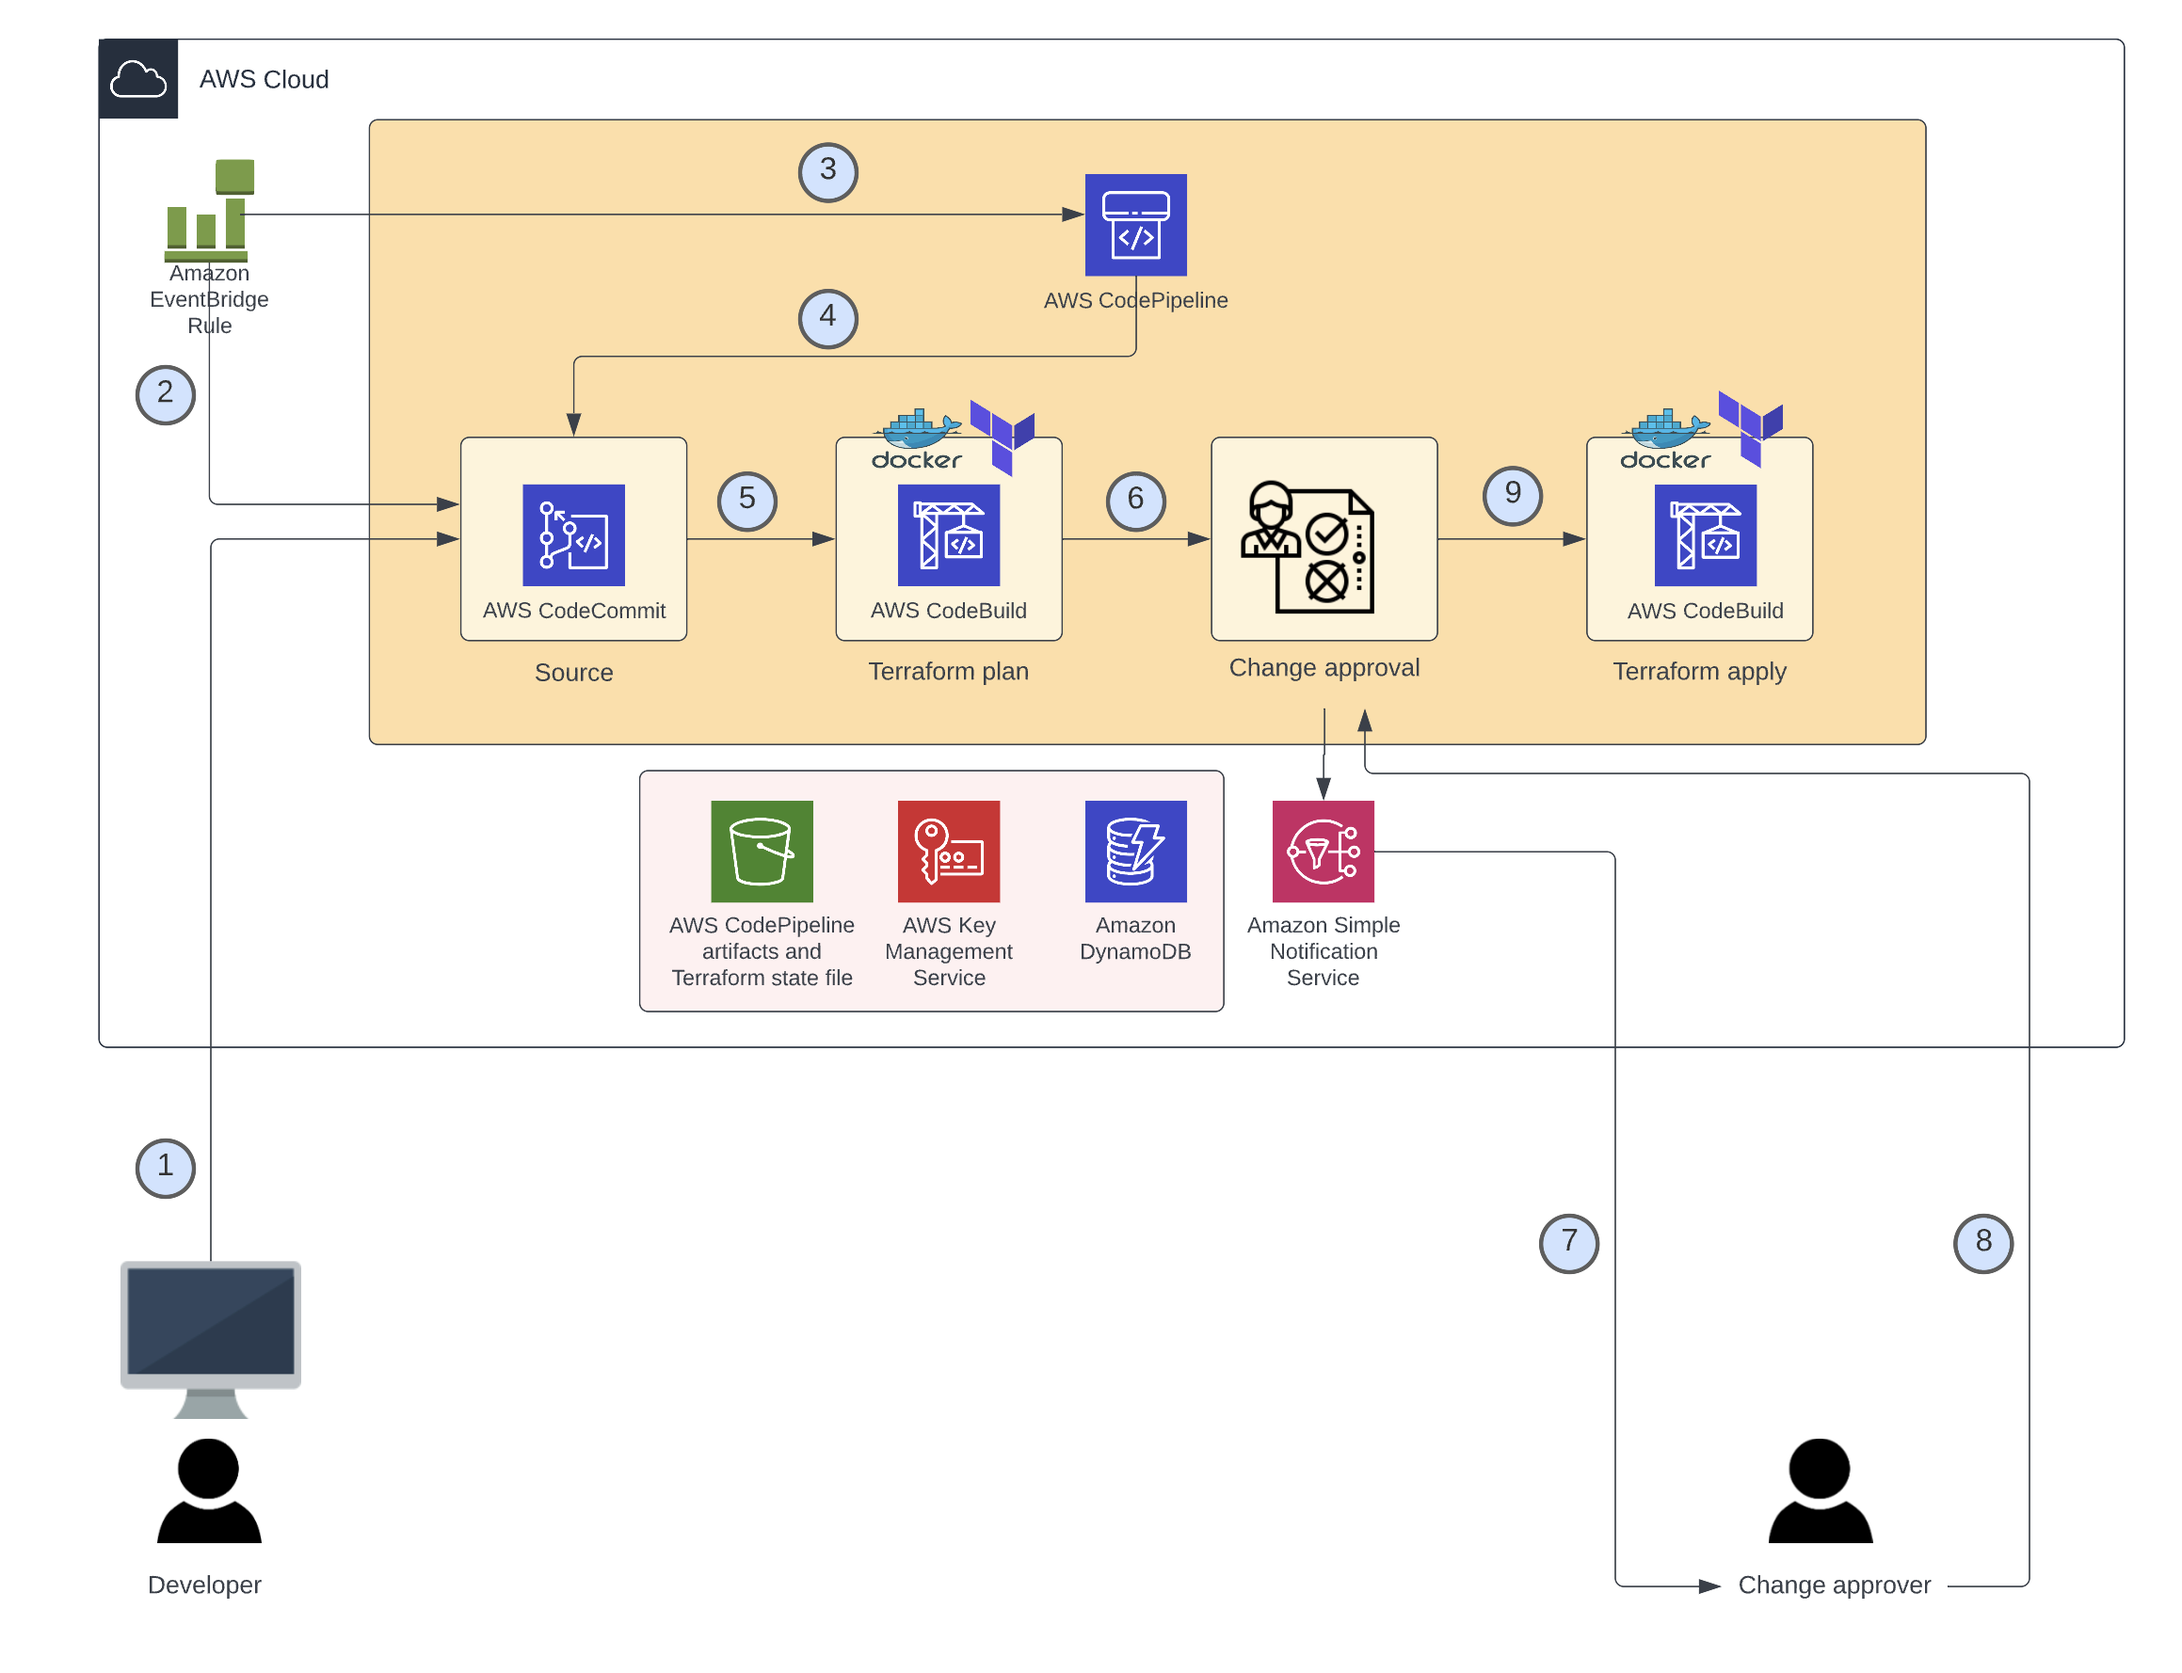
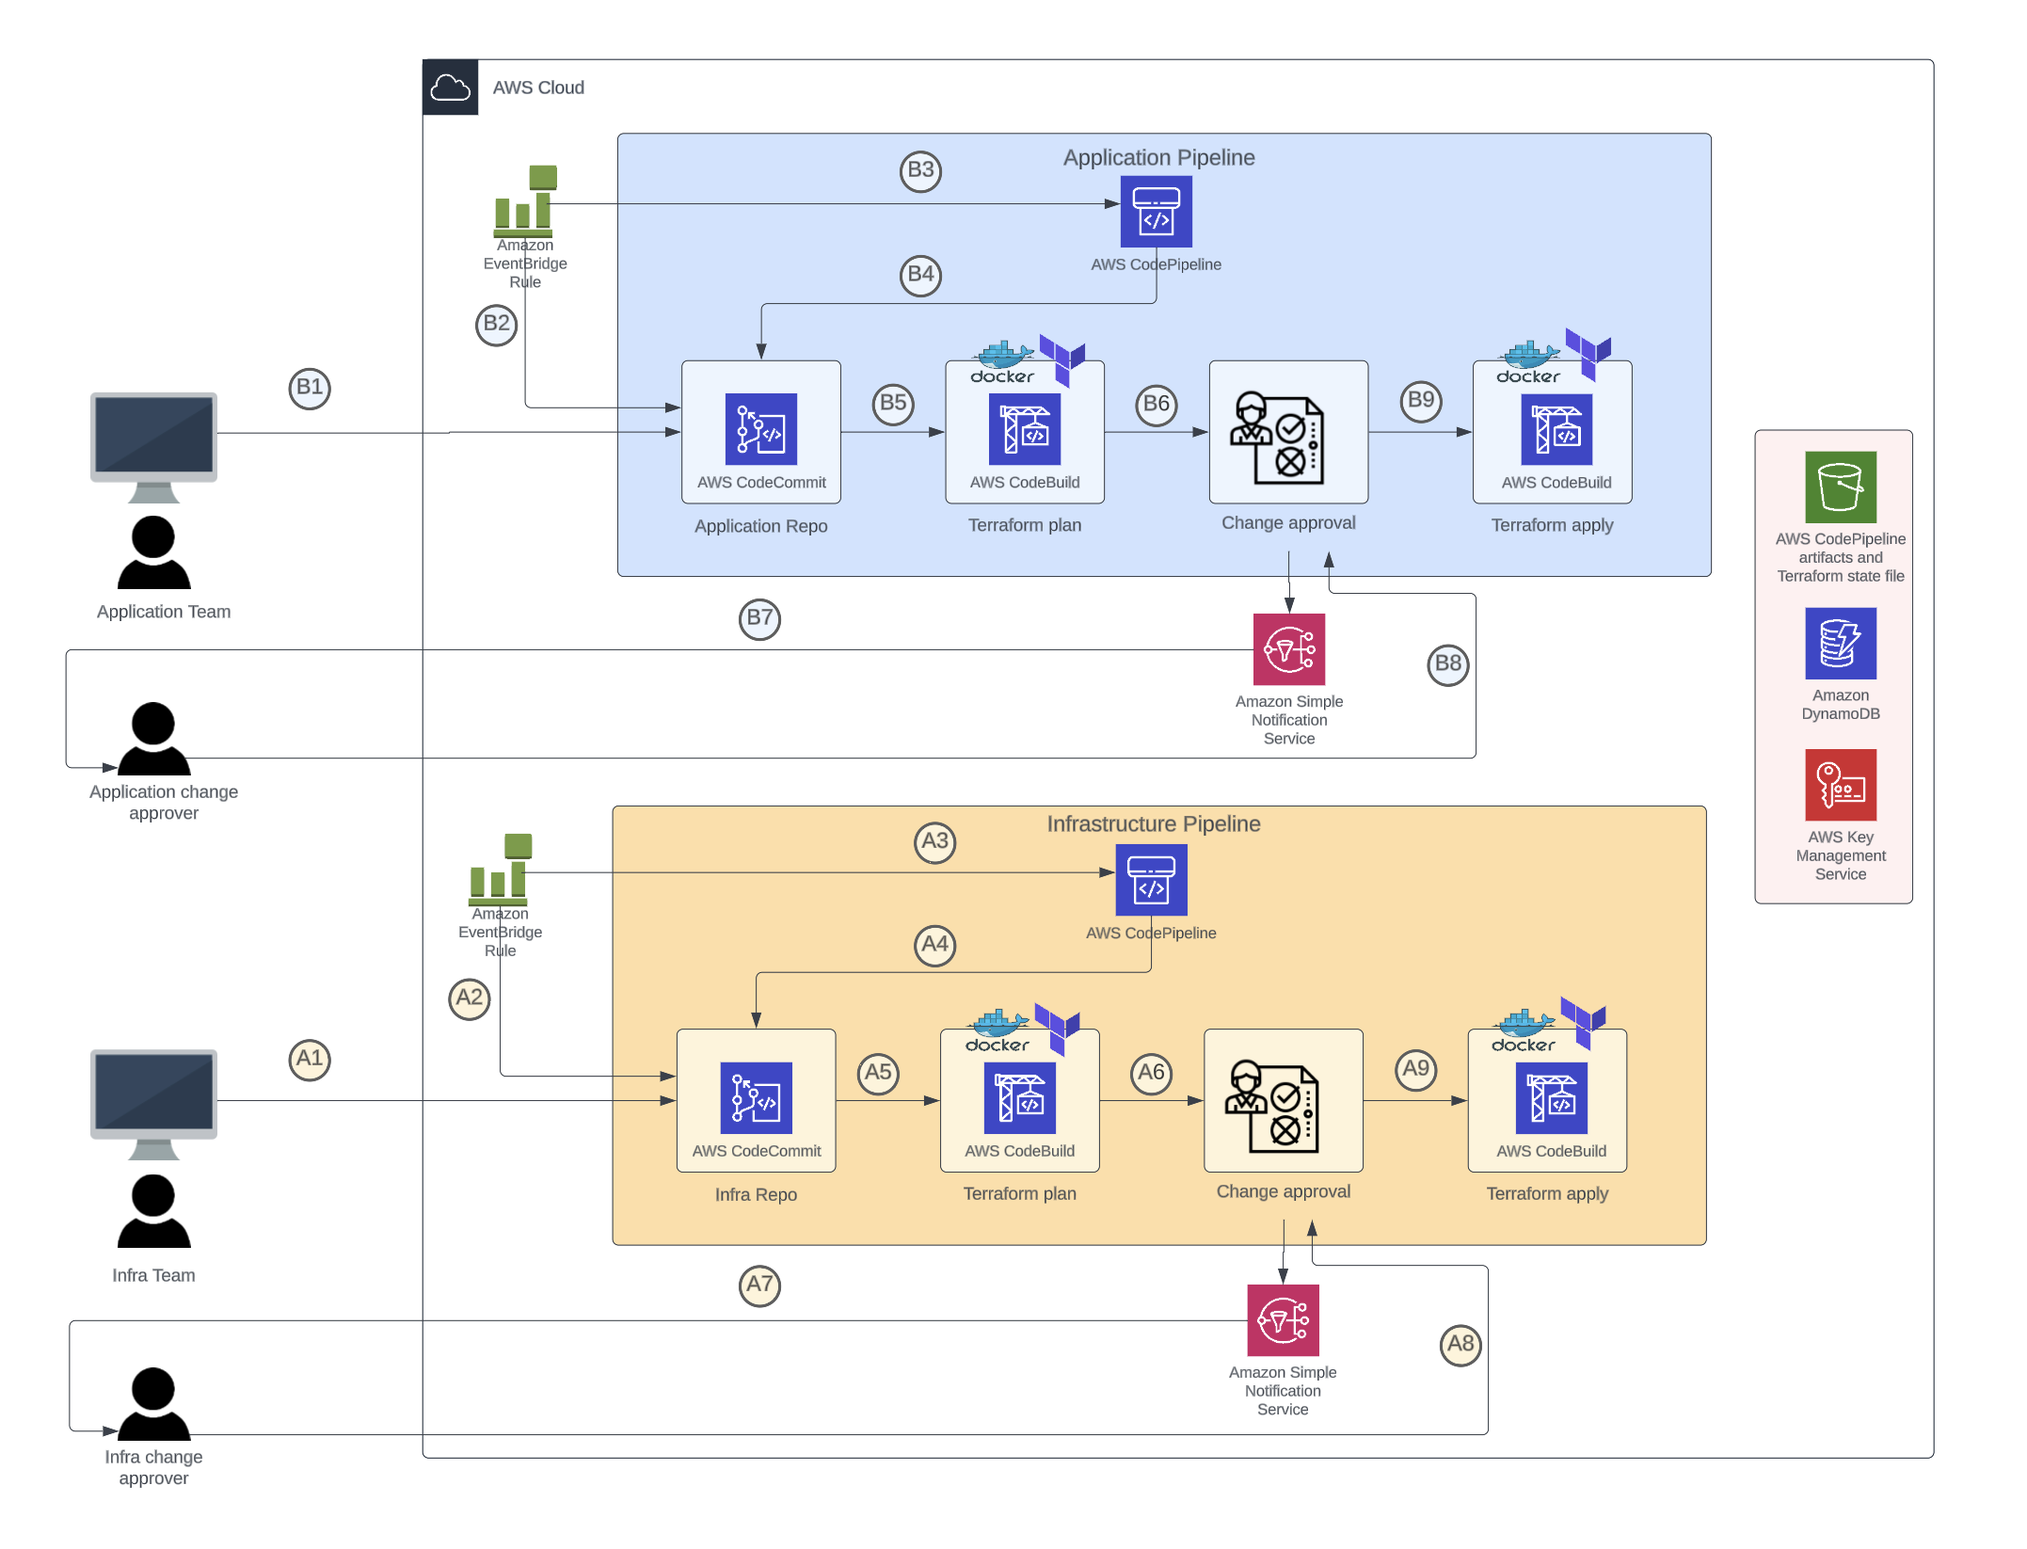
docs: add application pipeline to documentation.

diff --git a/README.md b/README.md
@@ -86,7 +86,9 @@ After the prerequisites have been deployed, run the following command to deploy 
 
     - TF_S3_BUCKET_NAME - change \<mys3bucketname\> to the Amazon S3 bucket name that was used for prerequisites.
 
-    - TF_VAR_owner_email - change \<myemailaddress\> to your email address. This email address will be used to approve/reject changes that are deployed to the Serverless pipeline.
+    - TF_VAR_infra_approver_email - change \<infraapproveremailaddress\> to the infrastructure approver's email address. This email address will be used to approve/reject infrastructure changes that are deployed to the Serverless infrastructure pipeline.
+
+    - TF_VAR_app_approver_email - change \<appapproveremailaddress\> to the application approver's email address. This email address will be used to approve/reject application changes that are deployed to the Serverless application pipeline.
 
 2. Update the values under **default_tags** in file terraform/_provider.tf to match those that were used for the prerequisites.
 
@@ -105,4 +107,7 @@ After the prerequisites have been deployed, run the following command to deploy 
 ``
 6. Amazon SNS will send an email to the owner email address that was provided. Ensure you click on the link, to confirm otherwise, you won't receive any emails when the Servereless pipeline runs.
 
-Full details for this solution can be found at https://nivleshc.wordpress.com/2023/03/28/use-aws-codepipeline-aws-codecommit-aws-codebuild-amazon-simple-storage-service-amazon-dynamodb-and-docker-to-create-a-pipeline-to-deploy-terraform-code/
+Full details for this solution can be found at below locations
+- https://nivleshc.wordpress.com/2023/03/28/use-aws-codepipeline-aws-codecommit-aws-codebuild-amazon-simple-storage-service-amazon-dynamodb-and-docker-to-create-a-pipeline-to-deploy-terraform-code/
+
+- https://nivleshc.wordpress.com/2023/06/29/add-an-application-pipeline-to-the-serverless-terraform-pipeline/
